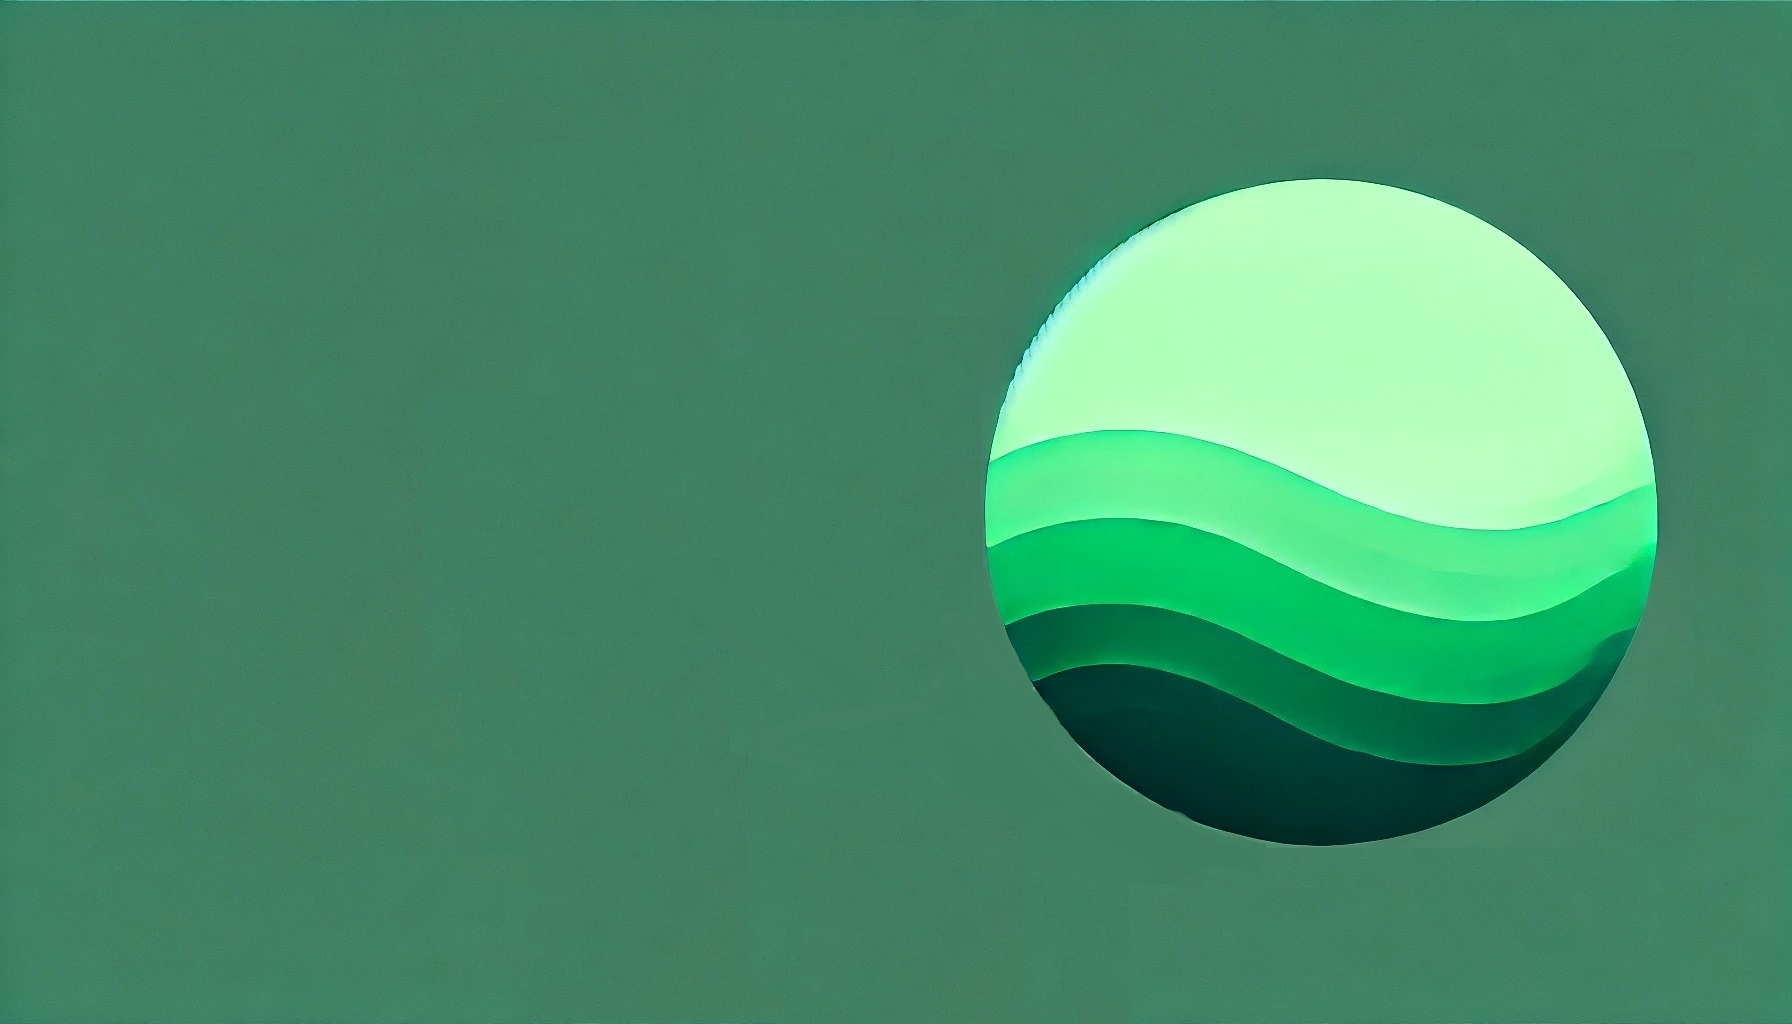
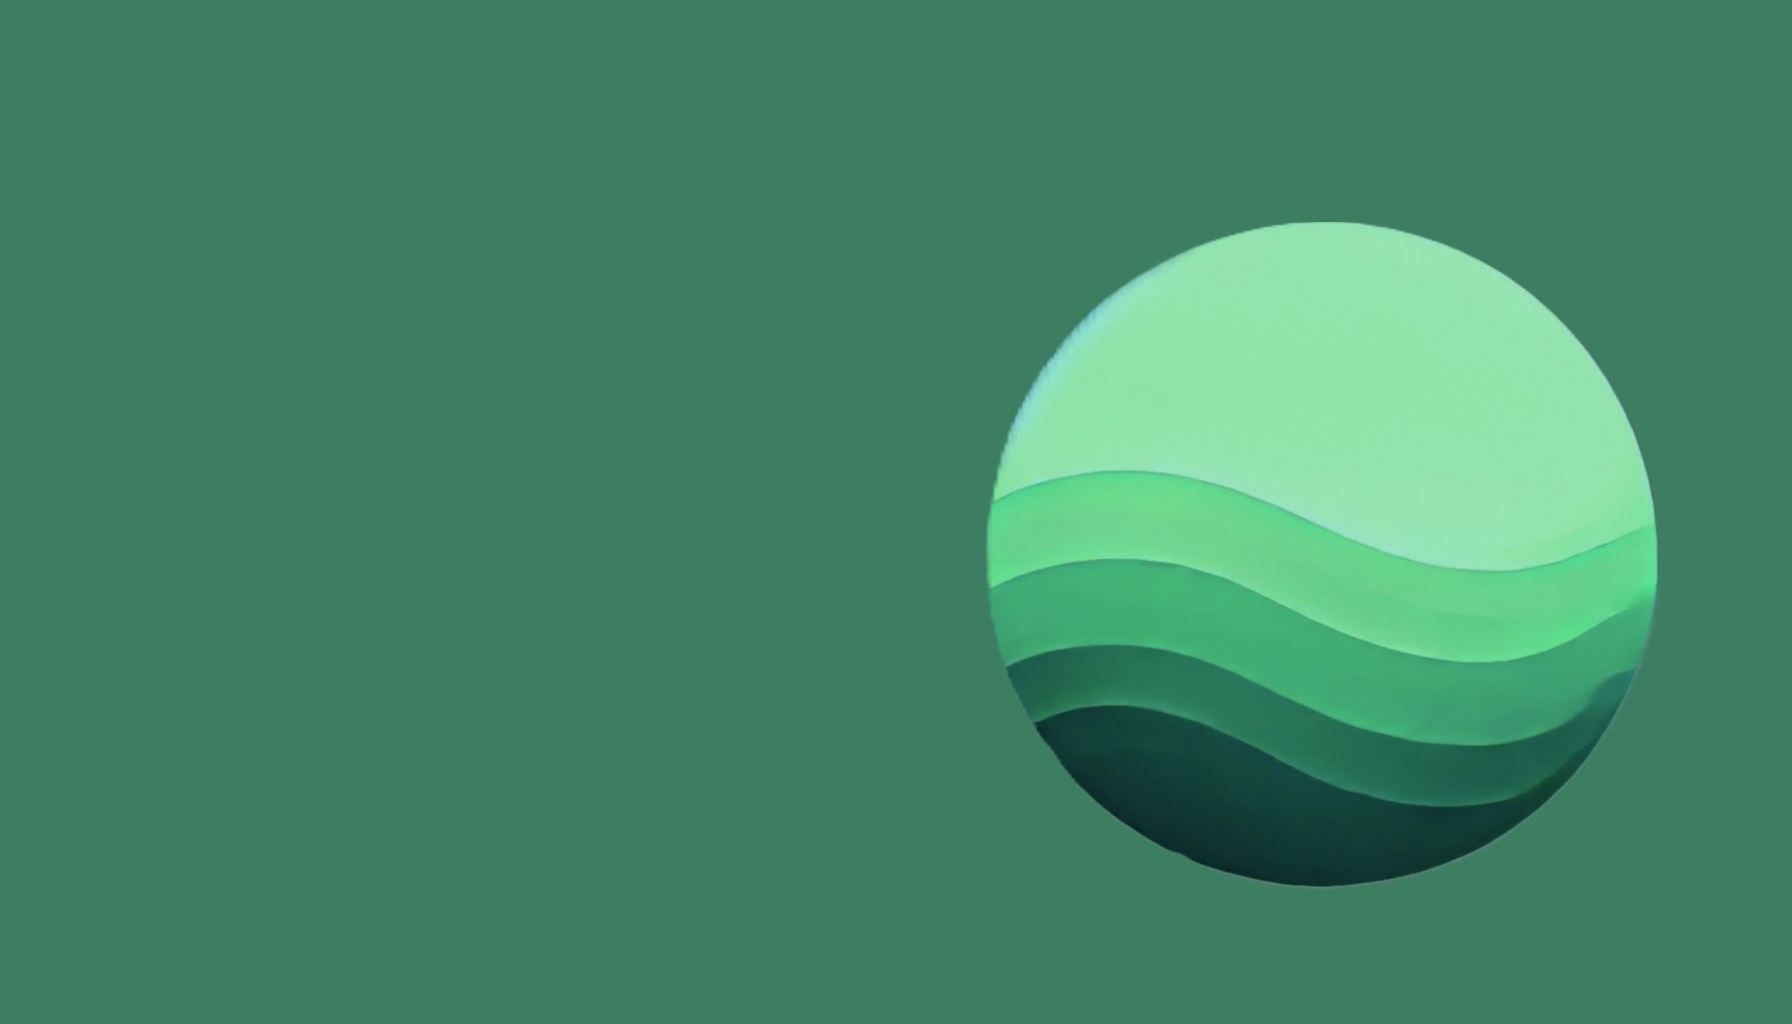
image

Changed region(s): [[0.5312, 0.1562, 0.9375, 0.875]]

diff --git a/index.css b/index.css
@@ -35,7 +35,7 @@
     --line-height-small: 1.2;
 
     --black: #3D7D62;
-    --pink: rgba(178, 255, 187, 0.895);
+    --pink: #AFFFFB;
     --white: #f0e9f2;
     --white-1: #e5e5e6da;
 
